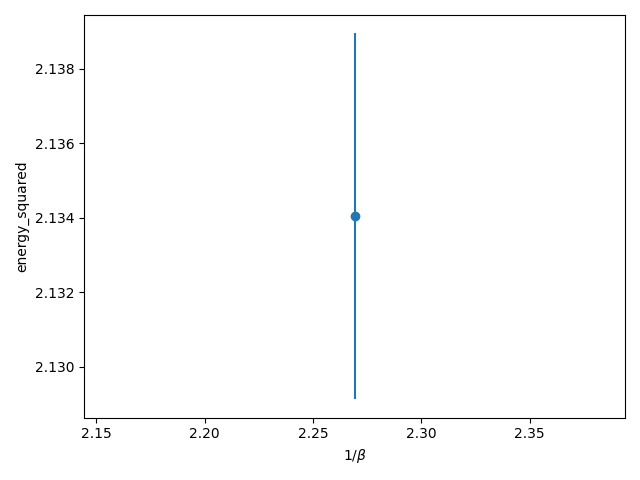
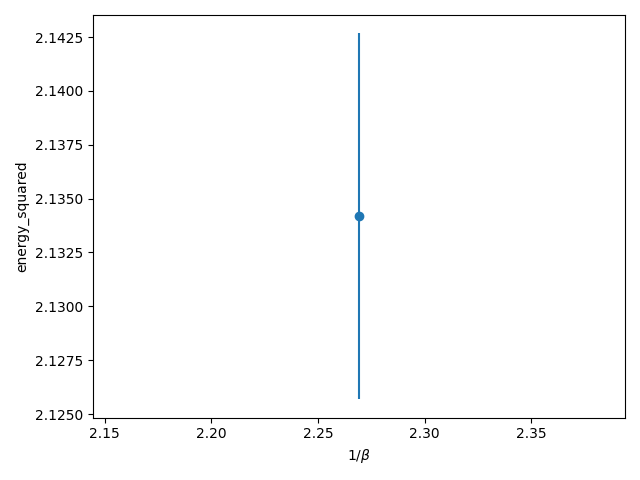
Added new plots

diff --git a/src/MultiLevelHMCGenerator/MultiLevelHMCGenerator.h b/src/MultiLevelHMCGenerator/MultiLevelHMCGenerator.h
@@ -259,7 +259,11 @@ MultiLevelHMCGenerator<configuration_type>::MultiLevelHMCGenerator(BaseModel<con
     current_level.getAttribute(nu_post_name).read(buffer);
     nu_post.push_back(buffer);
     int iBuffer;
-    current_level.getAttribute(erg_jump_dists_name).read(iBuffer);
+    if (current_level.hasAttribute(erg_jump_dists_name)){
+        current_level.getAttribute(erg_jump_dists_name).read(iBuffer);
+    }else{
+        iBuffer=-1;
+    }
     erg_jump_dists.push_back(iBuffer);
     current_level.getAttribute(gamma_name).read(gamma);
     double dBuffer;
@@ -287,7 +291,11 @@ MultiLevelHMCGenerator<configuration_type>::MultiLevelHMCGenerator(BaseModel<con
         nu_pre.push_back(buffer);
         current_level.getAttribute(nu_post_name).read(buffer);
         nu_post.push_back(buffer);
-        current_level.getAttribute(erg_jump_dists_name).read(iBuffer);
+        if (current_level.hasAttribute(erg_jump_dists_name)){
+            current_level.getAttribute(erg_jump_dists_name).read(iBuffer);
+        }else{
+            iBuffer=-1;
+        }
         erg_jump_dists.push_back(iBuffer);
         current_level.getAttribute(gamma_name).read(gamma);
         current_level.getAttribute(inter_type_name).read(iBuffer);

diff --git a/src/main.cpp b/src/main.cpp
@@ -348,9 +348,9 @@ int main([[maybe_unused]] int argc, [[maybe_unused]] char *argv[]) {
     //test_HMC(std::string(DATA_DIR).append("HMCTest1.dat"));
     //test_multi_level_hmc();
     //test_hmc_measurements();
-    //DoMultiLevelMeasurementsFromFile(
-    // std::string("checker_board_multi_level_hmc_2_levels/02_05_2022__14_00_34_0.440687.h5"));
-    MultiLevelCriticalSimulation();
+    DoMultiLevelMeasurementsFromFile(
+     std::string("std_hmc/02_05_2022__14_26_52_0.440687.h5"));
+    //MultiLevelCriticalSimulation();
     //return test_hip();
 }
 

diff --git a/plot/plot.py b/plot/plot.py
@@ -80,8 +80,8 @@ energies_squared = []
 energies_squared_errors = []
 
 # sub_folder_name = "checker_board_multi_level_hmc_2_levels/"
-sub_folder_name = "black_white_multi_level_hmc_2_levels/"
-# sub_folder_name = "std_hmc/"
+# sub_folder_name = "black_white_multi_level_hmc_3_levels/"
+sub_folder_name = "std_hmc/"
 
 for file in os.listdir(sub_folder_name):
     if file.startswith("out_"):
